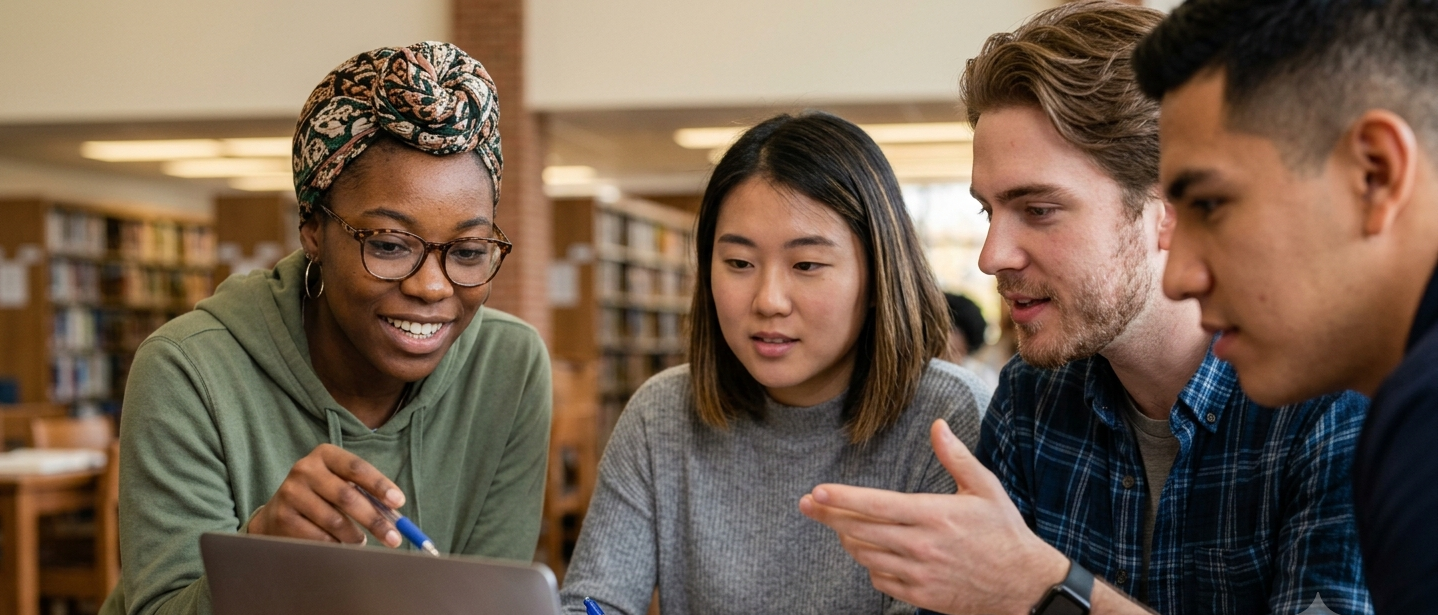
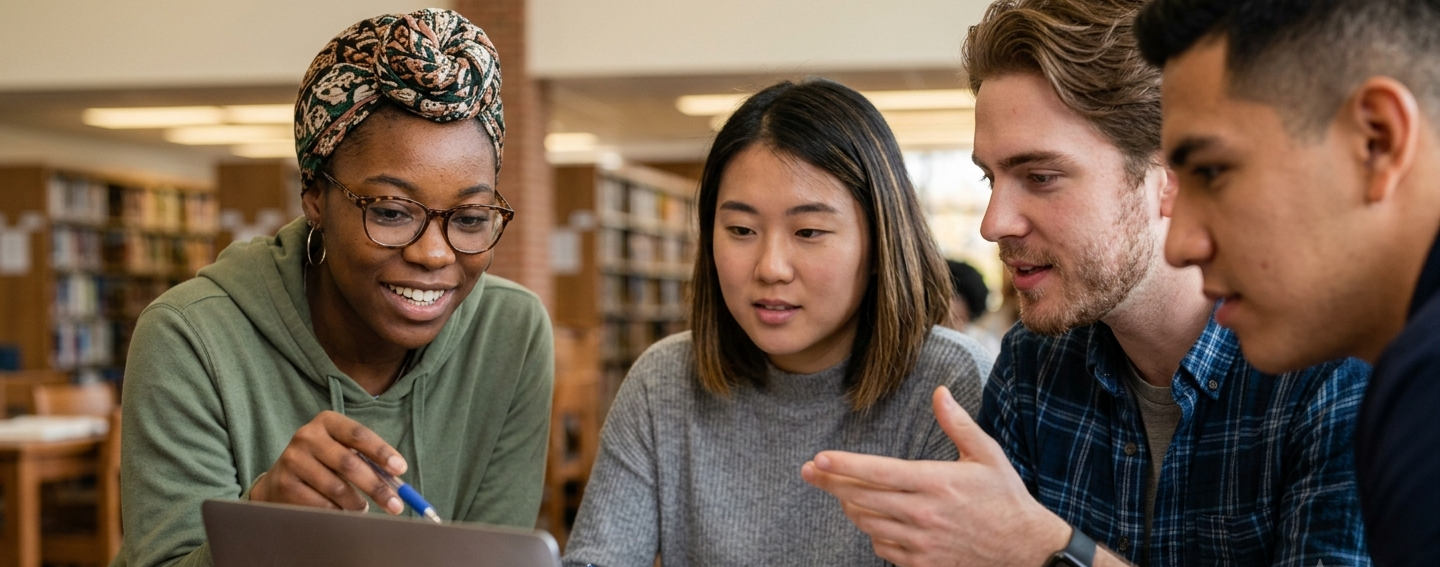
fixed page header image

diff --git a/themes/educenter-hugo/assets/scss/_common.scss b/themes/educenter-hugo/assets/scss/_common.scss
@@ -234,6 +234,9 @@ a h4{
 /* page title */
 .page-title-section {
   padding: 200px 0 80px;
+  background-repeat: no-repeat;
+  background-size: cover;
+  background-position: top center;
 }
 
 .custom-breadcrumb {
